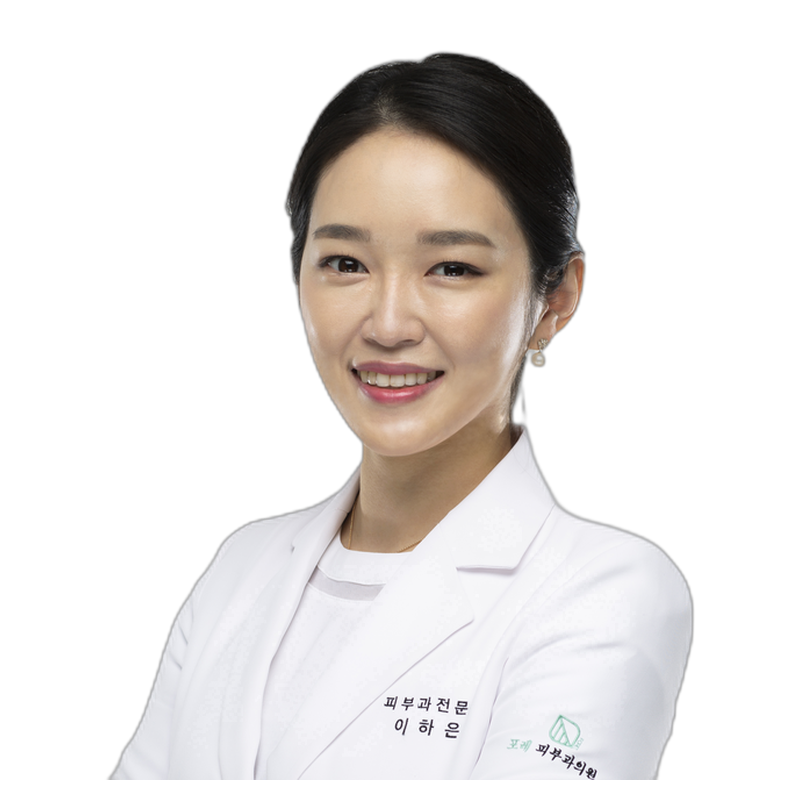
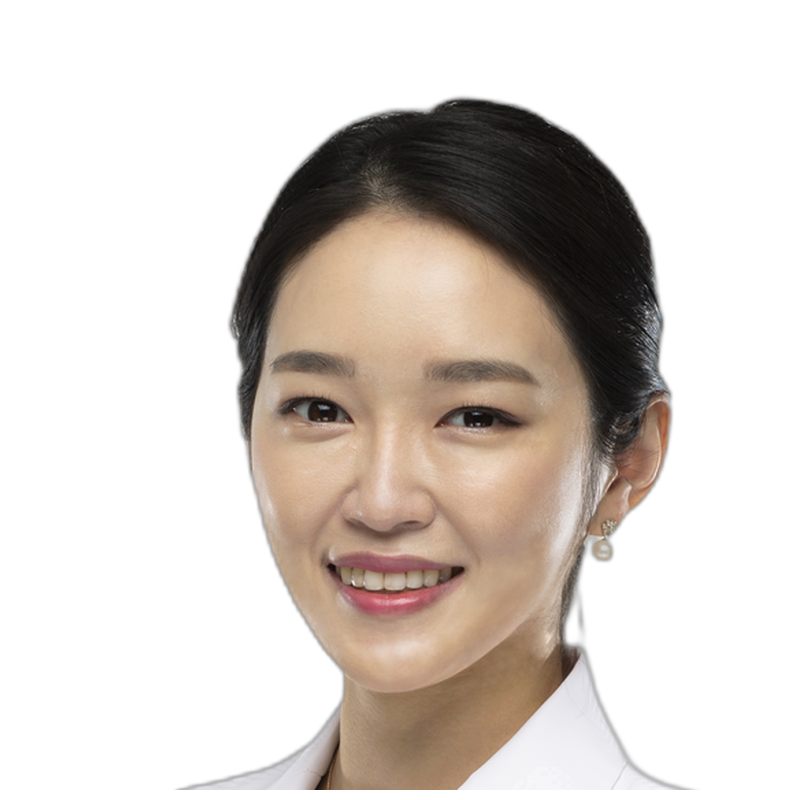
누끼 사진 일관된 머리+상반신 크롭 + 데스크톱 overflow 추가
- 모든 사진을 인물 bbox 상위 65%만 사용 (머리+상반신, 다리 제외)
- 캔버스 88% 높이로 일관 정규화
- 두 사진 보유 의사도 페이드 시 머리 위치/크기 일치
- 데스크톱 hero photo 컨테이너에 overflow: hidden 추가
  (사진과 그라디언트 배경 경계 정확히 맞음)

diff --git a/clinic/foret/index.html b/clinic/foret/index.html
@@ -23,7 +23,7 @@
   <link href="https://fonts.googleapis.com/css2?family=Noto+Sans+KR:wght@300;400;500;600;700;800&display=swap" rel="stylesheet">
   <link rel="stylesheet" href="https://unpkg.com/leaflet@1.9.4/dist/leaflet.css" />
   <link rel="stylesheet" href="https://cdnjs.cloudflare.com/ajax/libs/font-awesome/6.5.1/css/all.min.css" />
-  <link rel="stylesheet" href="css/style.css?v=20260501h">
+  <link rel="stylesheet" href="css/style.css?v=20260501i">
 </head>
 <body>
   <!-- Navigation -->
@@ -57,6 +57,6 @@
   </footer>
 
   <script src="https://unpkg.com/leaflet@1.9.4/dist/leaflet.js"></script>
-  <script src="js/app.js?v=20260501h"></script>
+  <script src="js/app.js?v=20260501i"></script>
 </body>
 </html>

diff --git a/clinic/healhouse-gangnam/index.html b/clinic/healhouse-gangnam/index.html
@@ -23,7 +23,7 @@
   <link href="https://fonts.googleapis.com/css2?family=Noto+Sans+KR:wght@300;400;500;600;700;800&display=swap" rel="stylesheet">
   <link rel="stylesheet" href="https://unpkg.com/leaflet@1.9.4/dist/leaflet.css" />
   <link rel="stylesheet" href="https://cdnjs.cloudflare.com/ajax/libs/font-awesome/6.5.1/css/all.min.css" />
-  <link rel="stylesheet" href="css/style.css?v=20260501h">
+  <link rel="stylesheet" href="css/style.css?v=20260501i">
 </head>
 <body>
   <!-- Navigation -->
@@ -57,6 +57,6 @@
   </footer>
 
   <script src="https://unpkg.com/leaflet@1.9.4/dist/leaflet.js"></script>
-  <script src="js/app.js?v=20260501h"></script>
+  <script src="js/app.js?v=20260501i"></script>
 </body>
 </html>

diff --git a/clinic/hev-sinsa/index.html b/clinic/hev-sinsa/index.html
@@ -23,7 +23,7 @@
   <link href="https://fonts.googleapis.com/css2?family=Noto+Sans+KR:wght@300;400;500;600;700;800&display=swap" rel="stylesheet">
   <link rel="stylesheet" href="https://unpkg.com/leaflet@1.9.4/dist/leaflet.css" />
   <link rel="stylesheet" href="https://cdnjs.cloudflare.com/ajax/libs/font-awesome/6.5.1/css/all.min.css" />
-  <link rel="stylesheet" href="css/style.css?v=20260501h">
+  <link rel="stylesheet" href="css/style.css?v=20260501i">
 </head>
 <body>
   <!-- Navigation -->
@@ -57,6 +57,6 @@
   </footer>
 
   <script src="https://unpkg.com/leaflet@1.9.4/dist/leaflet.js"></script>
-  <script src="js/app.js?v=20260501h"></script>
+  <script src="js/app.js?v=20260501i"></script>
 </body>
 </html>

diff --git a/clinic/human-pyeongtaek/index.html b/clinic/human-pyeongtaek/index.html
@@ -23,7 +23,7 @@
   <link href="https://fonts.googleapis.com/css2?family=Noto+Sans+KR:wght@300;400;500;600;700;800&display=swap" rel="stylesheet">
   <link rel="stylesheet" href="https://unpkg.com/leaflet@1.9.4/dist/leaflet.css" />
   <link rel="stylesheet" href="https://cdnjs.cloudflare.com/ajax/libs/font-awesome/6.5.1/css/all.min.css" />
-  <link rel="stylesheet" href="css/style.css?v=20260501h">
+  <link rel="stylesheet" href="css/style.css?v=20260501i">
 </head>
 <body>
   <!-- Navigation -->
@@ -57,6 +57,6 @@
   </footer>
 
   <script src="https://unpkg.com/leaflet@1.9.4/dist/leaflet.js"></script>
-  <script src="js/app.js?v=20260501h"></script>
+  <script src="js/app.js?v=20260501i"></script>
 </body>
 </html>

diff --git a/clinic/vos/index.html b/clinic/vos/index.html
@@ -23,7 +23,7 @@
   <link href="https://fonts.googleapis.com/css2?family=Noto+Sans+KR:wght@300;400;500;600;700;800&display=swap" rel="stylesheet">
   <link rel="stylesheet" href="https://unpkg.com/leaflet@1.9.4/dist/leaflet.css" />
   <link rel="stylesheet" href="https://cdnjs.cloudflare.com/ajax/libs/font-awesome/6.5.1/css/all.min.css" />
-  <link rel="stylesheet" href="css/style.css?v=20260501h">
+  <link rel="stylesheet" href="css/style.css?v=20260501i">
 </head>
 <body>
   <!-- Navigation -->
@@ -57,6 +57,6 @@
   </footer>
 
   <script src="https://unpkg.com/leaflet@1.9.4/dist/leaflet.js"></script>
-  <script src="js/app.js?v=20260501h"></script>
+  <script src="js/app.js?v=20260501i"></script>
 </body>
 </html>

diff --git a/dermatologist/bae-jungmin/index.html b/dermatologist/bae-jungmin/index.html
@@ -23,7 +23,7 @@
   <link href="https://fonts.googleapis.com/css2?family=Noto+Sans+KR:wght@300;400;500;600;700;800&display=swap" rel="stylesheet">
   <link rel="stylesheet" href="https://unpkg.com/leaflet@1.9.4/dist/leaflet.css" />
   <link rel="stylesheet" href="https://cdnjs.cloudflare.com/ajax/libs/font-awesome/6.5.1/css/all.min.css" />
-  <link rel="stylesheet" href="css/style.css?v=20260501h">
+  <link rel="stylesheet" href="css/style.css?v=20260501i">
 </head>
 <body>
   <!-- Navigation -->
@@ -57,6 +57,6 @@
   </footer>
 
   <script src="https://unpkg.com/leaflet@1.9.4/dist/leaflet.js"></script>
-  <script src="js/app.js?v=20260501h"></script>
+  <script src="js/app.js?v=20260501i"></script>
 </body>
 </html>

diff --git a/dermatologist/gye-jiwon/index.html b/dermatologist/gye-jiwon/index.html
@@ -23,7 +23,7 @@
   <link href="https://fonts.googleapis.com/css2?family=Noto+Sans+KR:wght@300;400;500;600;700;800&display=swap" rel="stylesheet">
   <link rel="stylesheet" href="https://unpkg.com/leaflet@1.9.4/dist/leaflet.css" />
   <link rel="stylesheet" href="https://cdnjs.cloudflare.com/ajax/libs/font-awesome/6.5.1/css/all.min.css" />
-  <link rel="stylesheet" href="css/style.css?v=20260501h">
+  <link rel="stylesheet" href="css/style.css?v=20260501i">
 </head>
 <body>
   <!-- Navigation -->
@@ -57,6 +57,6 @@
   </footer>
 
   <script src="https://unpkg.com/leaflet@1.9.4/dist/leaflet.js"></script>
-  <script src="js/app.js?v=20260501h"></script>
+  <script src="js/app.js?v=20260501i"></script>
 </body>
 </html>

diff --git a/dermatologist/jung-hanmi/index.html b/dermatologist/jung-hanmi/index.html
@@ -23,7 +23,7 @@
   <link href="https://fonts.googleapis.com/css2?family=Noto+Sans+KR:wght@300;400;500;600;700;800&display=swap" rel="stylesheet">
   <link rel="stylesheet" href="https://unpkg.com/leaflet@1.9.4/dist/leaflet.css" />
   <link rel="stylesheet" href="https://cdnjs.cloudflare.com/ajax/libs/font-awesome/6.5.1/css/all.min.css" />
-  <link rel="stylesheet" href="css/style.css?v=20260501h">
+  <link rel="stylesheet" href="css/style.css?v=20260501i">
 </head>
 <body>
   <!-- Navigation -->
@@ -57,6 +57,6 @@
   </footer>
 
   <script src="https://unpkg.com/leaflet@1.9.4/dist/leaflet.js"></script>
-  <script src="js/app.js?v=20260501h"></script>
+  <script src="js/app.js?v=20260501i"></script>
 </body>
 </html>

diff --git a/dermatologist/jung-jongheon/index.html b/dermatologist/jung-jongheon/index.html
@@ -23,7 +23,7 @@
   <link href="https://fonts.googleapis.com/css2?family=Noto+Sans+KR:wght@300;400;500;600;700;800&display=swap" rel="stylesheet">
   <link rel="stylesheet" href="https://unpkg.com/leaflet@1.9.4/dist/leaflet.css" />
   <link rel="stylesheet" href="https://cdnjs.cloudflare.com/ajax/libs/font-awesome/6.5.1/css/all.min.css" />
-  <link rel="stylesheet" href="css/style.css?v=20260501h">
+  <link rel="stylesheet" href="css/style.css?v=20260501i">
 </head>
 <body>
   <!-- Navigation -->
@@ -57,6 +57,6 @@
   </footer>
 
   <script src="https://unpkg.com/leaflet@1.9.4/dist/leaflet.js"></script>
-  <script src="js/app.js?v=20260501h"></script>
+  <script src="js/app.js?v=20260501i"></script>
 </body>
 </html>

diff --git a/dermatologist/kim-hongseok/index.html b/dermatologist/kim-hongseok/index.html
@@ -23,7 +23,7 @@
   <link href="https://fonts.googleapis.com/css2?family=Noto+Sans+KR:wght@300;400;500;600;700;800&display=swap" rel="stylesheet">
   <link rel="stylesheet" href="https://unpkg.com/leaflet@1.9.4/dist/leaflet.css" />
   <link rel="stylesheet" href="https://cdnjs.cloudflare.com/ajax/libs/font-awesome/6.5.1/css/all.min.css" />
-  <link rel="stylesheet" href="css/style.css?v=20260501h">
+  <link rel="stylesheet" href="css/style.css?v=20260501i">
 </head>
 <body>
   <!-- Navigation -->
@@ -57,6 +57,6 @@
   </footer>
 
   <script src="https://unpkg.com/leaflet@1.9.4/dist/leaflet.js"></script>
-  <script src="js/app.js?v=20260501h"></script>
+  <script src="js/app.js?v=20260501i"></script>
 </body>
 </html>

diff --git a/dermatologist/lee-haeun/index.html b/dermatologist/lee-haeun/index.html
@@ -23,7 +23,7 @@
   <link href="https://fonts.googleapis.com/css2?family=Noto+Sans+KR:wght@300;400;500;600;700;800&display=swap" rel="stylesheet">
   <link rel="stylesheet" href="https://unpkg.com/leaflet@1.9.4/dist/leaflet.css" />
   <link rel="stylesheet" href="https://cdnjs.cloudflare.com/ajax/libs/font-awesome/6.5.1/css/all.min.css" />
-  <link rel="stylesheet" href="css/style.css?v=20260501h">
+  <link rel="stylesheet" href="css/style.css?v=20260501i">
 </head>
 <body>
   <!-- Navigation -->
@@ -57,6 +57,6 @@
   </footer>
 
   <script src="https://unpkg.com/leaflet@1.9.4/dist/leaflet.js"></script>
-  <script src="js/app.js?v=20260501h"></script>
+  <script src="js/app.js?v=20260501i"></script>
 </body>
 </html>

diff --git a/dermatologist/lee-seolhee/index.html b/dermatologist/lee-seolhee/index.html
@@ -23,7 +23,7 @@
   <link href="https://fonts.googleapis.com/css2?family=Noto+Sans+KR:wght@300;400;500;600;700;800&display=swap" rel="stylesheet">
   <link rel="stylesheet" href="https://unpkg.com/leaflet@1.9.4/dist/leaflet.css" />
   <link rel="stylesheet" href="https://cdnjs.cloudflare.com/ajax/libs/font-awesome/6.5.1/css/all.min.css" />
-  <link rel="stylesheet" href="css/style.css?v=20260501h">
+  <link rel="stylesheet" href="css/style.css?v=20260501i">
 </head>
 <body>
   <!-- Navigation -->
@@ -57,6 +57,6 @@
   </footer>
 
   <script src="https://unpkg.com/leaflet@1.9.4/dist/leaflet.js"></script>
-  <script src="js/app.js?v=20260501h"></script>
+  <script src="js/app.js?v=20260501i"></script>
 </body>
 </html>
